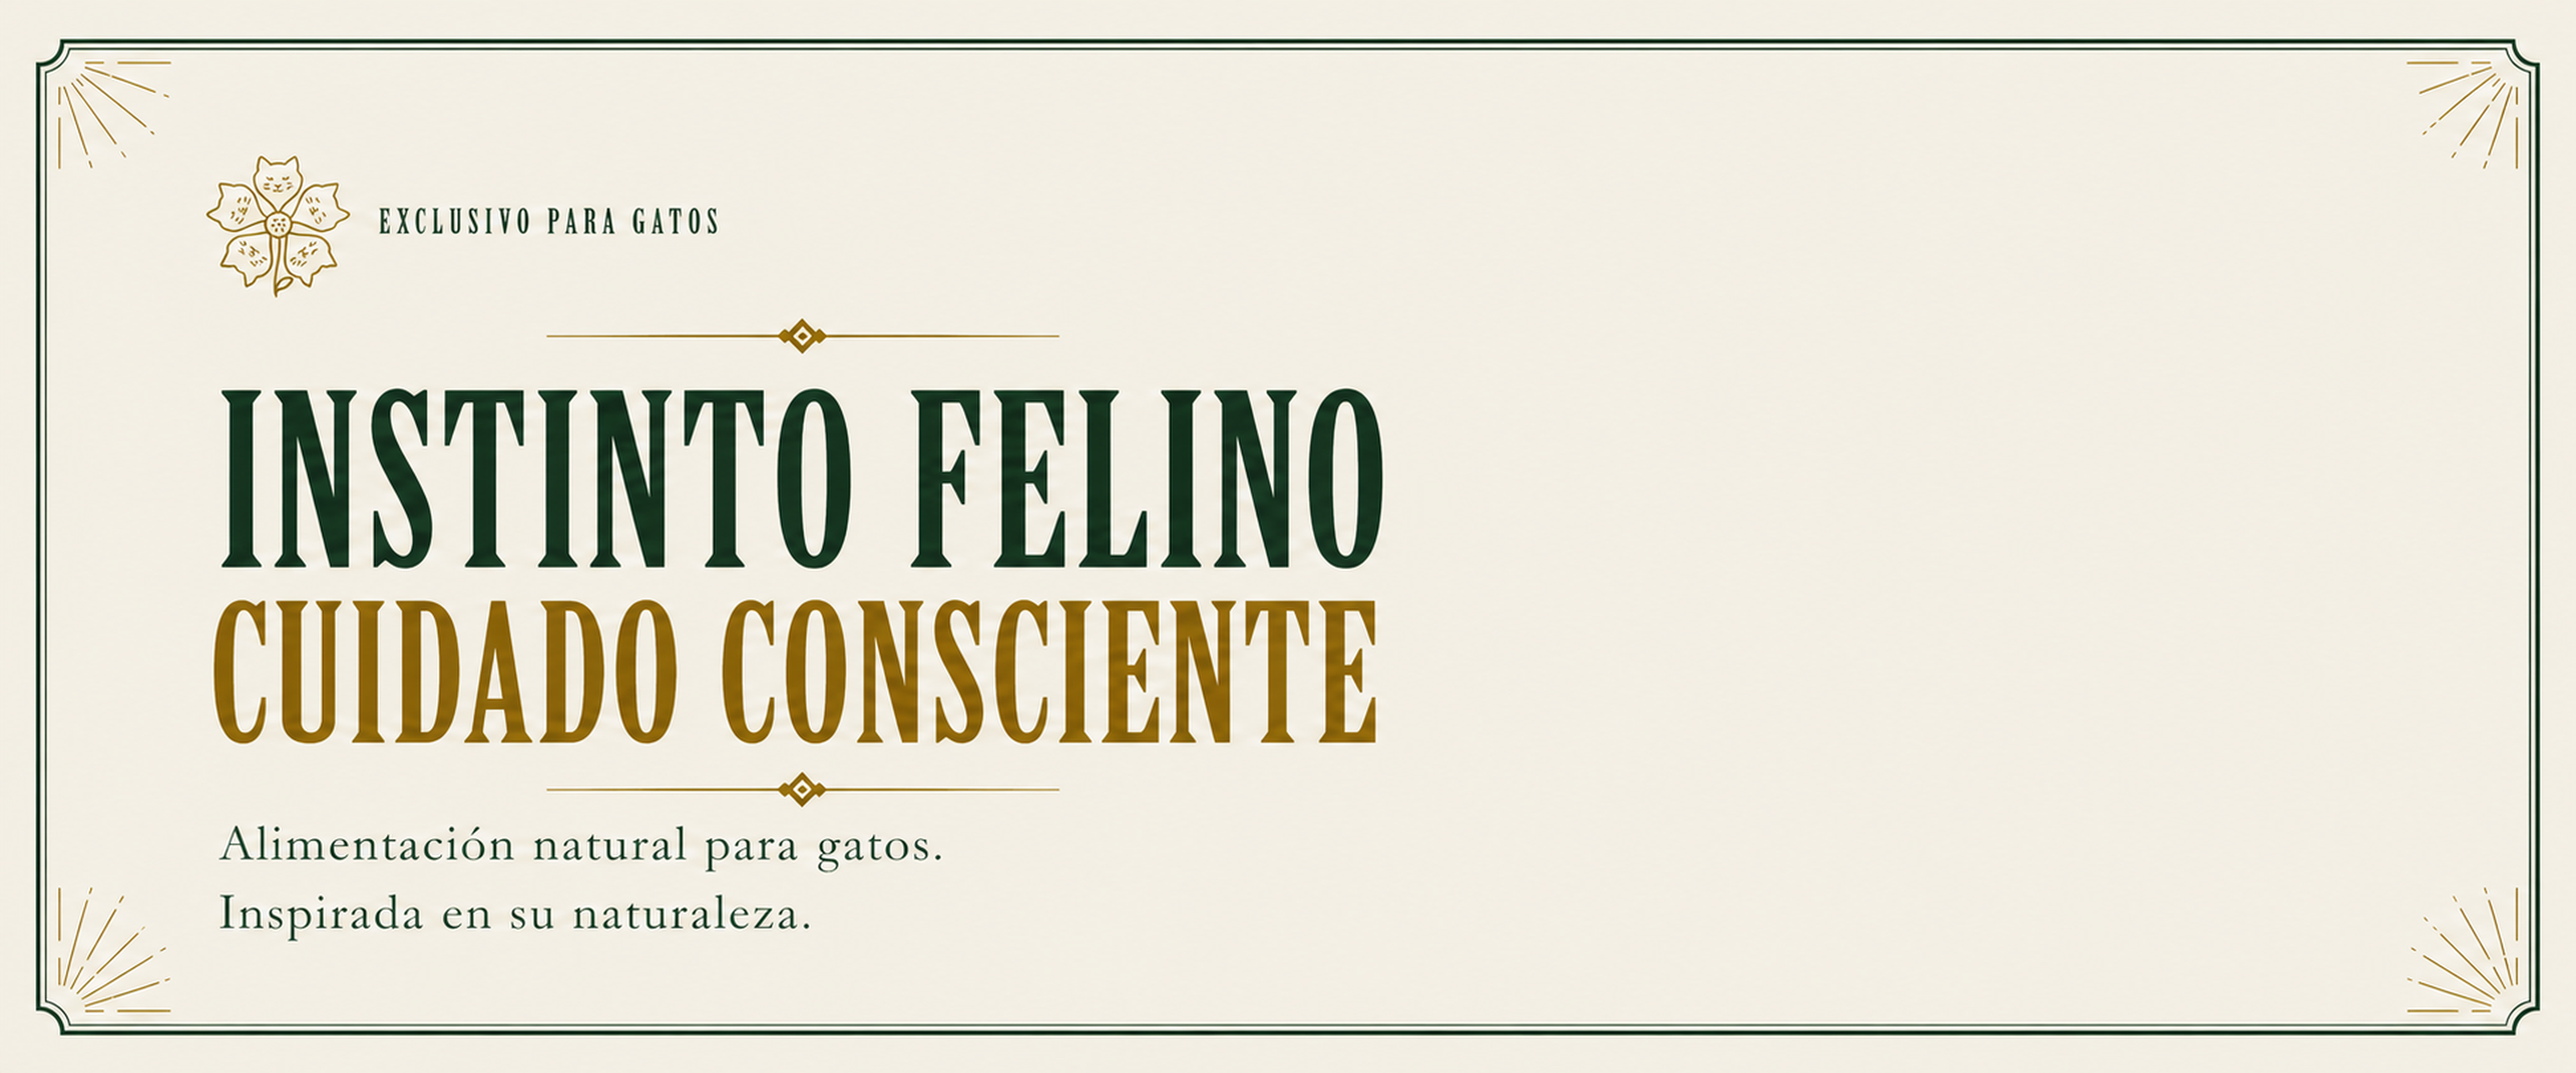
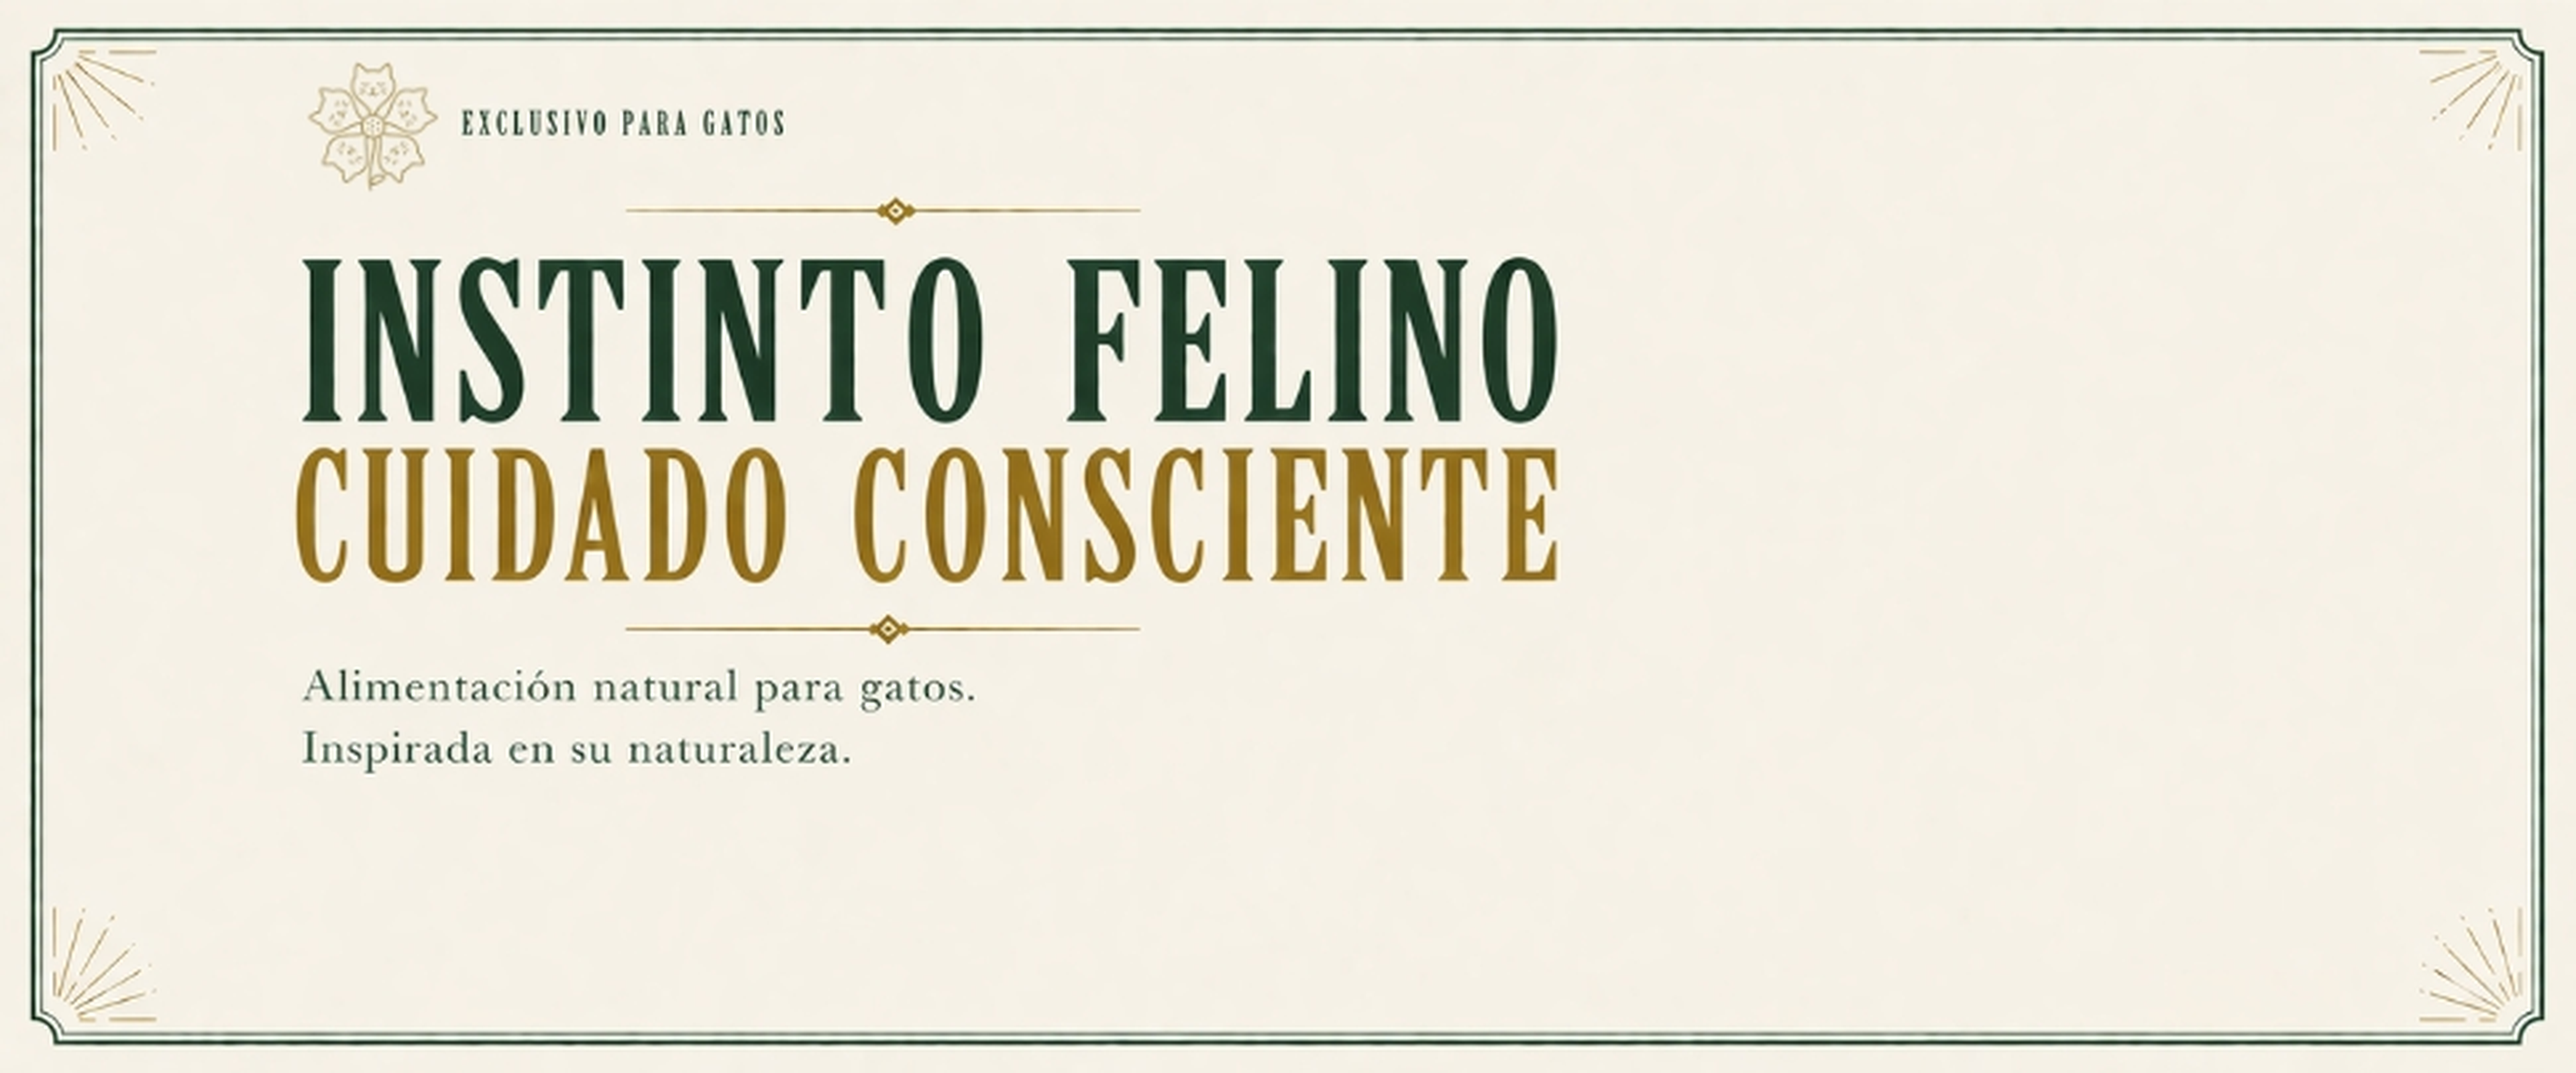
Add files via upload

Changed region(s): [[0.0, 0.0, 1.0, 1.0], [0.0938, 0.7812, 0.375, 0.8125], [0.0938, 0.8438, 0.3125, 0.875]]

diff --git a/index.html b/index.html
@@ -844,6 +844,30 @@
       0 0 0 2px rgba(50,57,21,.8),
       0 20px 40px -15px rgba(50,57,21,.5);
   }
+
+  /* Botón VER CATÁLOGO — abajo del subtítulo, link a productos */
+  .hero-cta-btn{
+    position:absolute;
+    left:6%;bottom:8%;
+    z-index:4;
+    display:inline-block;
+    line-height:0;
+    transition:transform .3s ease, filter .3s ease;
+  }
+  .hero-cta-btn img{
+    display:block;
+    width:clamp(180px, 19vw, 280px);
+    height:auto;
+    filter:drop-shadow(0 6px 16px rgba(163,142,72,.3));
+  }
+  .hero-cta-btn:hover{transform:translateY(-3px)}
+  .hero-cta-btn:hover img{
+    filter:drop-shadow(0 10px 22px rgba(163,142,72,.5)) brightness(1.06);
+  }
+  @media (max-width:600px){
+    .hero-cta-btn{left:50%;transform:translateX(-50%);bottom:6%}
+    .hero-cta-btn:hover{transform:translateX(-50%) translateY(-3px)}
+  }
   .hero-cat video{
     width:100%;height:100%;object-fit:cover;display:block;
   }
@@ -1949,12 +1973,15 @@
 <!-- ============= HERO ============= -->
 <section class="hero" id="inicio">
   <div class="hero-stage">
-    <img class="hero-banner" src="assets/hero-instinto.png?v=10" alt="BARFirenzina — Instinto felino, cuidado consciente"/>
+    <img class="hero-banner" src="assets/hero-instinto.png?v=11" alt="BARFirenzina — Instinto felino, cuidado consciente"/>
     <div class="hero-cat" aria-hidden="true">
       <video autoplay muted loop playsinline preload="auto" disablepictureinpicture>
         <source src="assets/hero.mp4" type="video/mp4" />
       </video>
     </div>
+    <a href="#productos" class="hero-cta-btn" aria-label="Ver catálogo de productos">
+      <img src="assets/btn-catalogo.png" alt="Ver catálogo"/>
+    </a>
   </div>
 </section>
 
